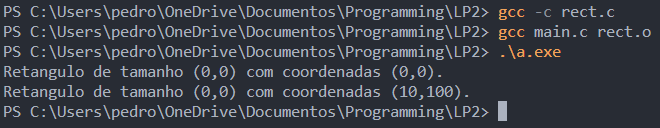
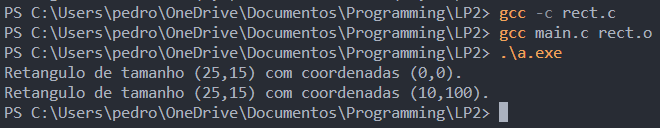
Add files via upload

diff --git a/C-Rect/rect.c b/C-Rect/rect.c
@@ -6,8 +6,8 @@ Rect* rect_new(){
     Rect* R  = malloc(sizeof(Rect));
     R->x = 0;
     R->y = 0;
-    R->w = 0;
-    R->h = 0;
+    R->w = 25;
+    R->h = 15;
 }
 
 void rect_print (Rect* this) {
